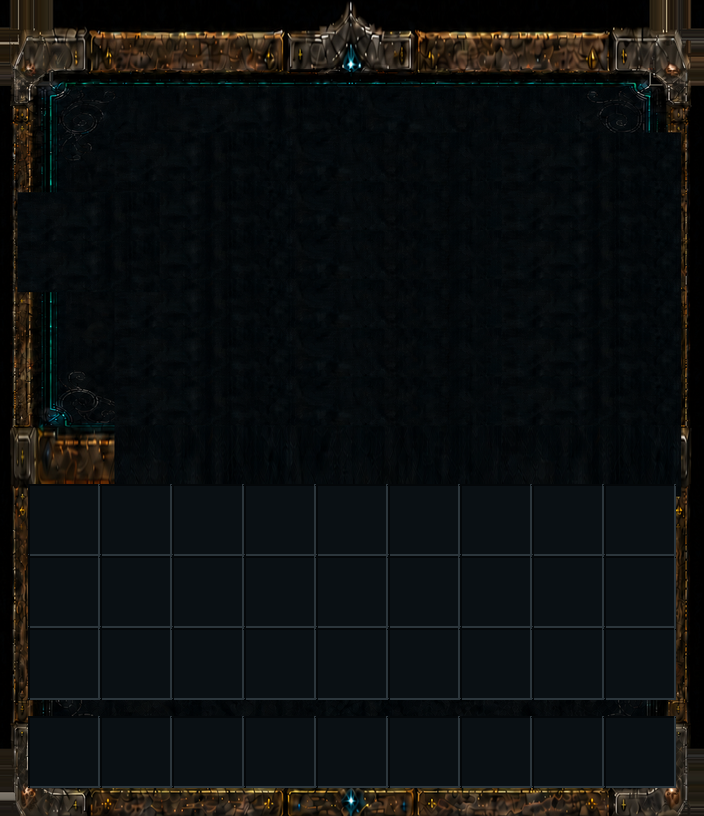
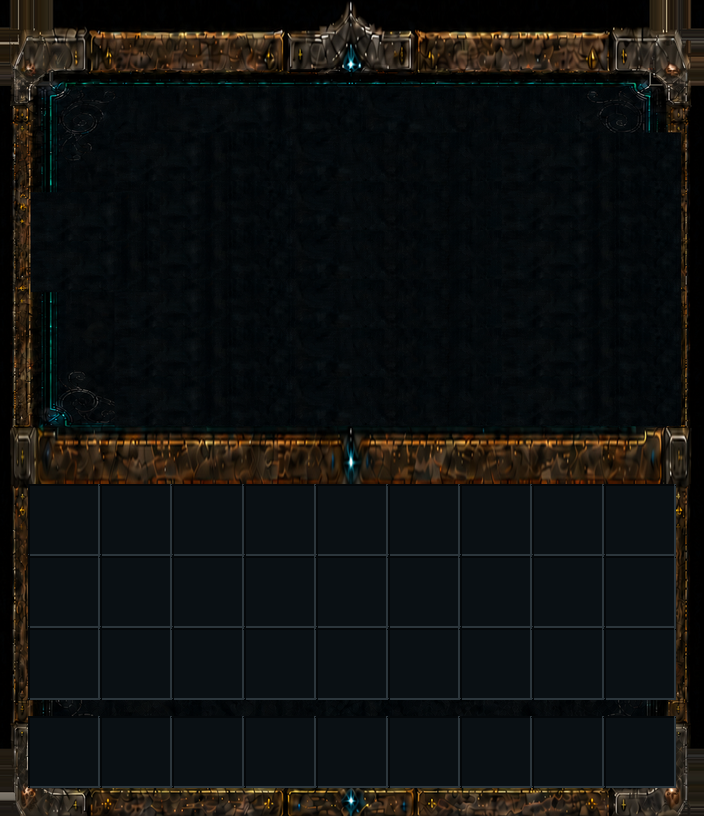
트리 배경 대파손 긴급 수정 — ERASE가 구분밴드·좌프레임을 삼켰다
직전 커밋(0a0d567)에서 ERASE를 y920/x35로 넓힌 게 실사고였다:
  · 메인 박스 y862→920 확장이 **구분 밴드(y866~900) 전체를 남색 패널로 덮어버려**
    나무 밴드가 통째로 사라졌다(스크린샷 확인: 큰 빈 남색 공간).
  · 근원 박스 x78→35 확장이 **좌프레임(x0~56)을 침범**해 나무에 네모 자국이 남았다.
  4행 링이 y899까지 뻗는다고 측정했던 건 사실 **원래 나무 밴드가 그 위를 덮어서 안 보이던
  부분**이었다 — 밴드 시작(866) 전까지만 지우면 됐는데 그 사실을 놓쳤다.

수정: 메인 박스 y862(밴드 시작 직전)로, 근원 박스 x60(패널 시작)로 원복.
검증: 렌더 이미지로 구분밴드·좌프레임·근원 소켓 주변 전부 원본대로 복원 확인.

Changed region(s): [[0.1562, 0.5208, 0.9688, 0.6127], [0.0, 0.2145, 0.0625, 0.3676]]

diff --git a/gui-forge/build_skilltree_bg.py b/gui-forge/build_skilltree_bg.py
@@ -66,11 +66,12 @@ H_BANDS = [((0, 56), (0, 7)), ((56, 1060), (7, 169)), ((1060, 1114), (169, 176))
 # 소켓·레일을 덮을 깨끗한 패널 텍스처 (측정: 최대 밝기 23 = 완전 무장식)
 CLEAN_BOX = (300, 100, 900, 210)
 # 지울 영역 (원본 좌표) — 소켓 4행 + 레일 + 근원.
-#   ★1차값은 추정이었다: 4행 소켓 링이 y899까지 뻗어 있는데 ERASE가 845에서 끊겨
-#     54px가 안 지워진 채 남아 "링 아래가 잘린 것처럼" 보였다(실제 버그 재현·확인).
-#     전 방향 재측정: 1행 상단 y224 · 4행 하단 y899 · 근원 좌측 x60 · 4열 우측 x1050.
-#     여유(margin) 20px씩 더 줘서 안테리어싱 테두리까지 확실히 덮는다.
-ERASE = [(190, 200, 1070, 920), (35, 335, 260, 560)]
+#   ★2차 실사고: y920까지 늘렸다가 **구분 밴드(y866~900)를 통째로 삼켜서 나무 밴드가
+#     사라졌다.** 4행 링이 y899까지 뻗은 건 실제로 원래 나무 밴드가 그 위를 덮어서
+#     안 보이던 부분이었다 — 거기까지 지울 필요가 없었다. 밴드 시작(866) 직전까지만.
+#   ★root box도 x35로 좁혔다가 **좌프레임(0~56)을 침범**해 나무에 네모난 자국이 남았다.
+#     프레임을 안 건드리도록 x60(패널 시작) 이상만 지운다.
+ERASE = [(190, 200, 1070, 862), (60, 335, 260, 560)]
 
 CELL_IN, CELL_SH, CELL_HL = (10, 16, 20, 255), (4, 7, 9, 255), (44, 54, 60, 255)
 
